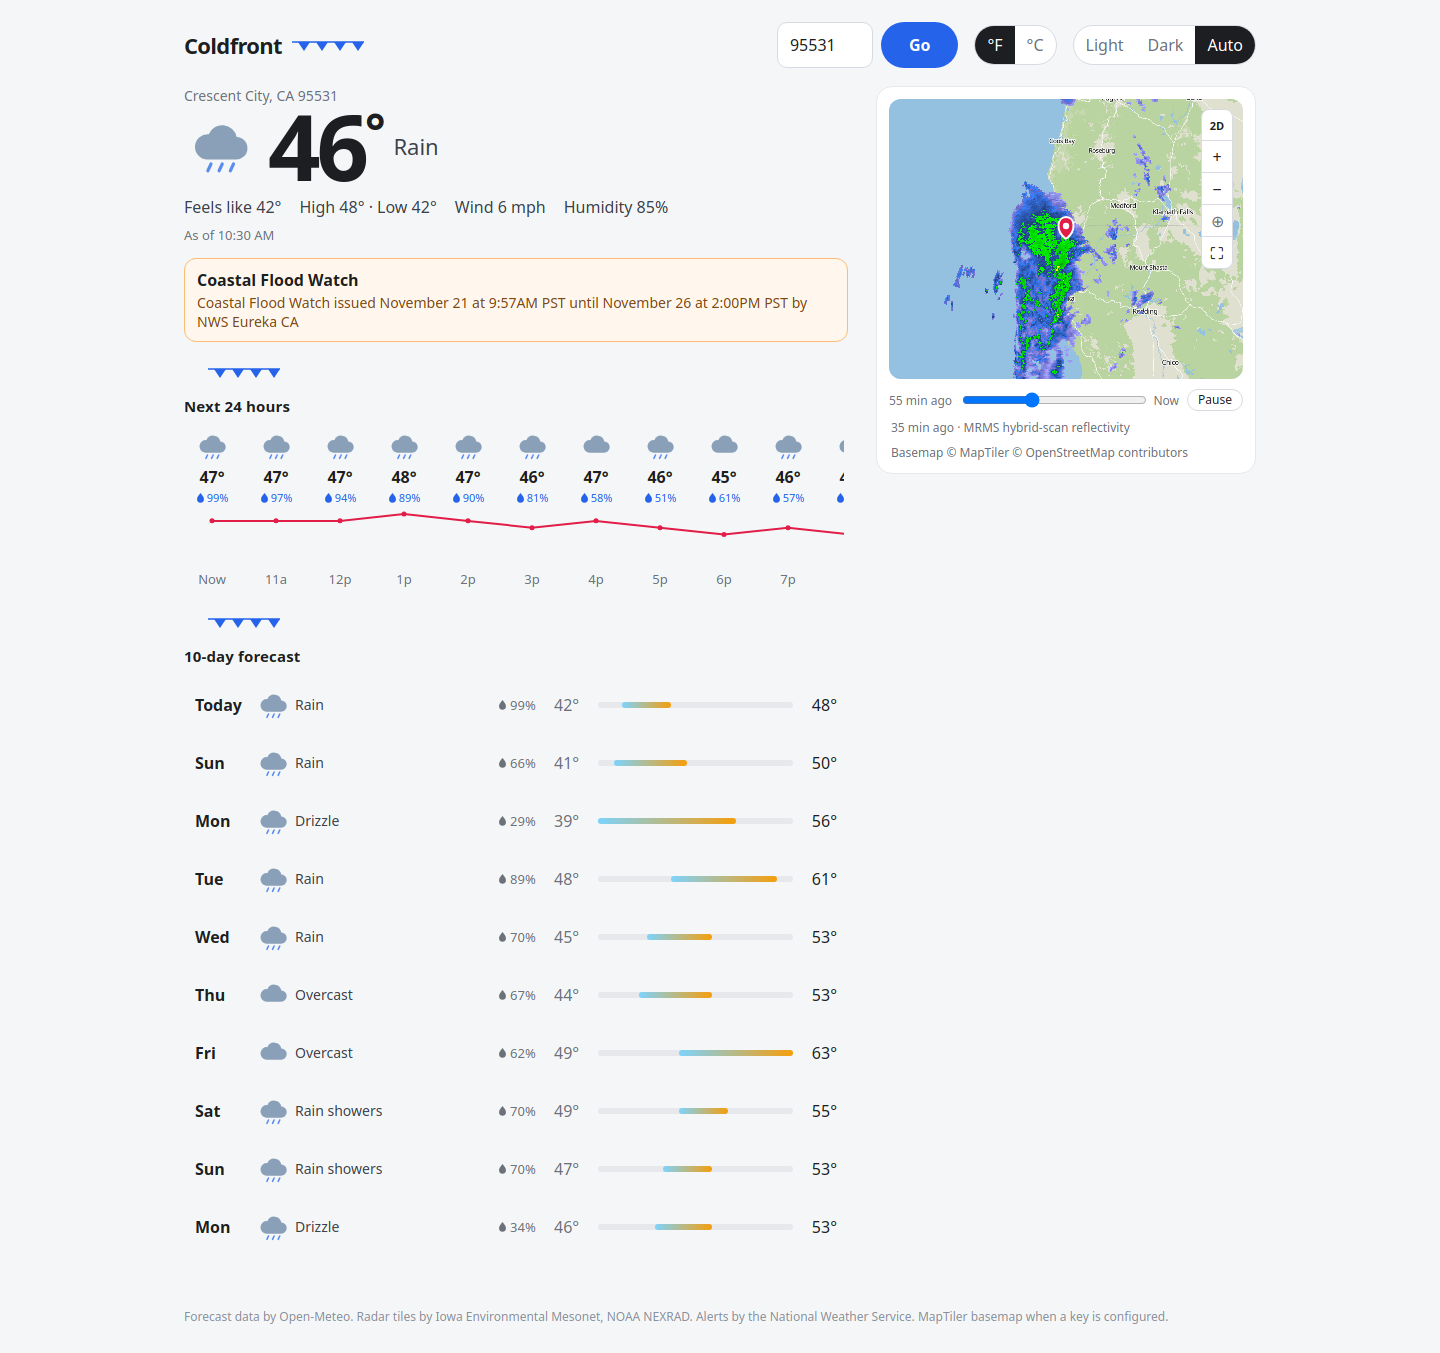
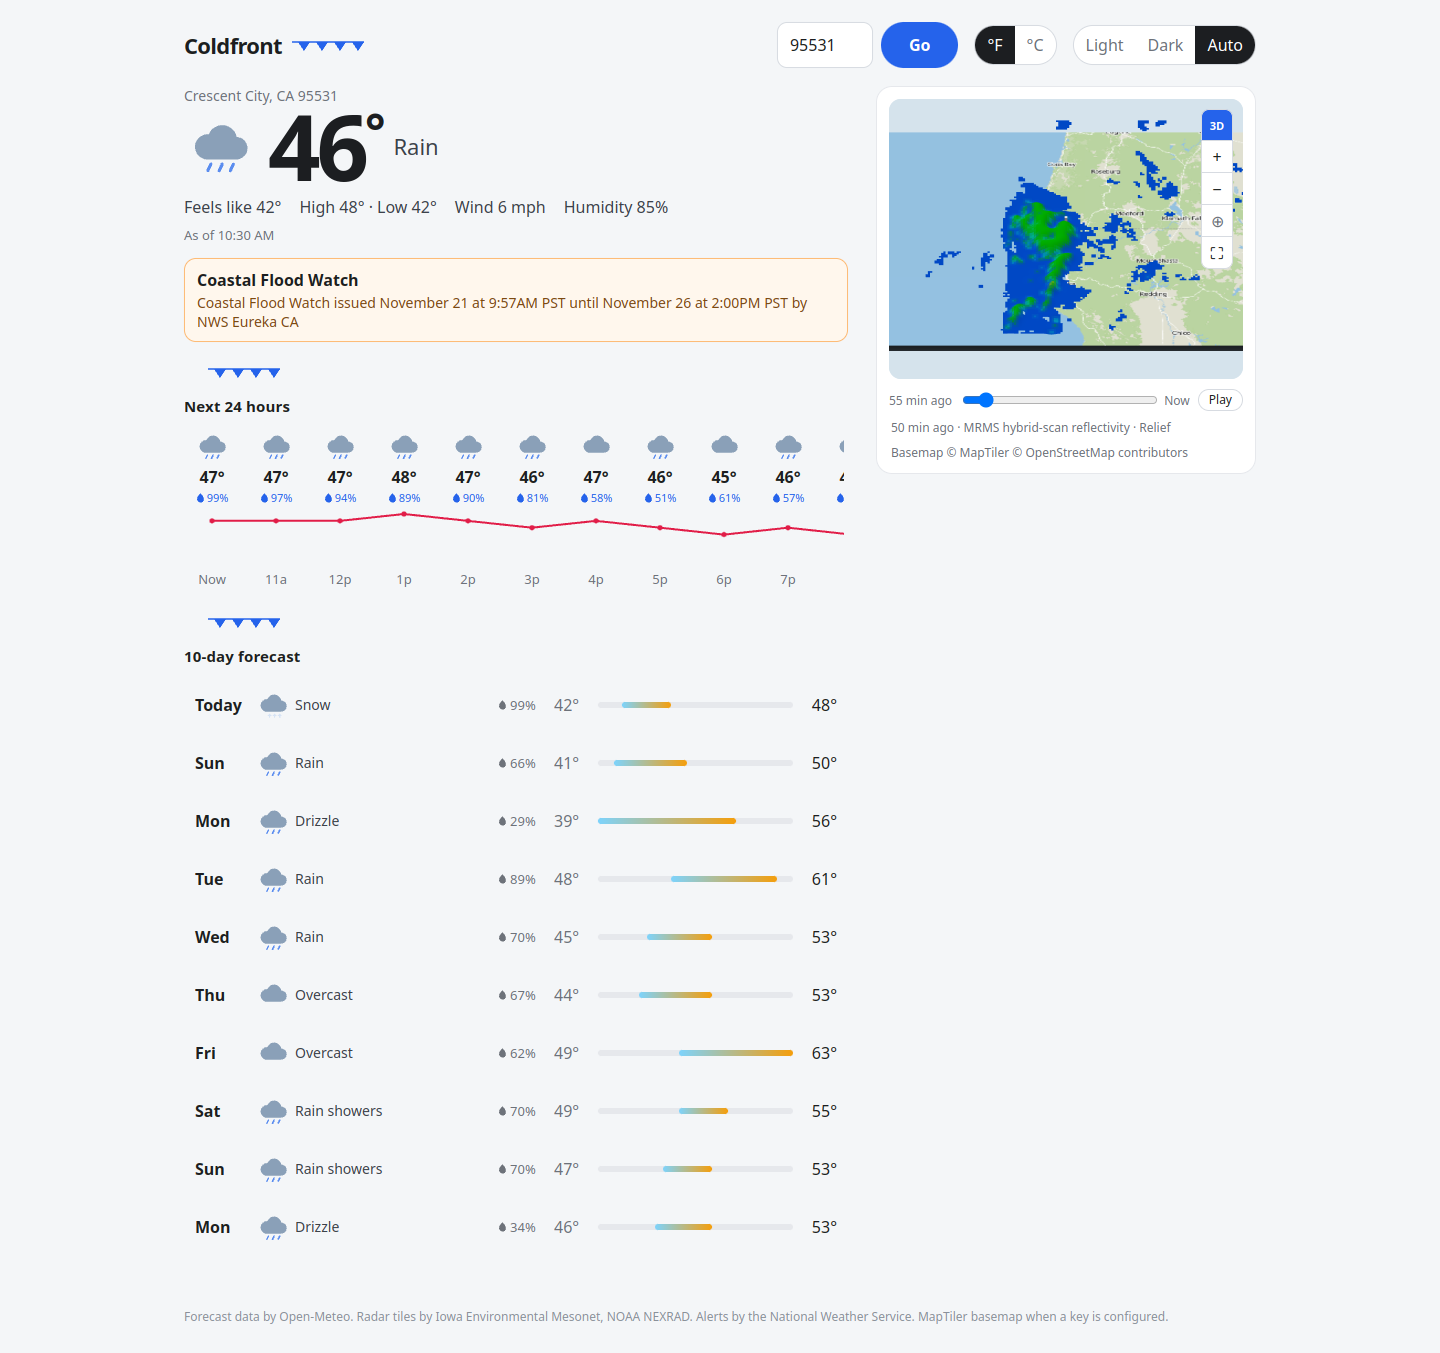
docs: recapture README screenshots with 3D Relief radar
Replace flat radar captures with Relief (3D) view at a pitched angle
after tiles load, still for Crescent City, CA (95531).

Changed region(s): [[0.5938, 0.0621, 0.875, 0.3104]]

diff --git a/README.md b/README.md
@@ -8,11 +8,11 @@ The [web app](https://coldfront.fyi) shows current conditions, the next 24 hours
 
 ## Screenshots
 
-Live site at [coldfront.fyi](https://coldfront.fyi), captured during heavy rain in **Crescent City, CA** (ZIP **95531**) with active coastal flood alerts.
+Live site at [coldfront.fyi](https://coldfront.fyi), captured during heavy rain in **Crescent City, CA** (ZIP **95531**) with active coastal flood alerts. Radar is in **3D Relief** view (in-app **2D**/**3D** toggle) with a pitched camera angle so the terrain and echo volume read clearly.
 
 | Desktop (1440×900) | Mobile (390×844, 2×) |
 | --- | --- |
-| ![Coldfront on desktop — Crescent City, CA (95531), rain and flood alerts](docs/screenshots/web-desktop.png) | ![Coldfront on mobile — Crescent City, CA (95531), rain and flood alerts](docs/screenshots/web-mobile.png) |
+| ![Coldfront on desktop — Crescent City, CA (95531), rain, flood alerts, and 3D Relief radar](docs/screenshots/web-desktop.png) | ![Coldfront on mobile — Crescent City, CA (95531), rain, flood alerts, and 3D Relief radar](docs/screenshots/web-mobile.png) |
 
 The two apps do not share a binary. They follow the same display rules. [Architecture](docs/architecture.md) is the design record; [reference](docs/reference.md) holds the field and route tables. [Contributing](CONTRIBUTING.md) covers local setup, tests, deploy, and release.
 
